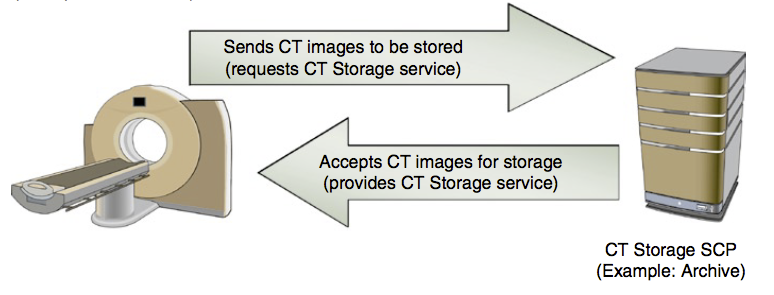
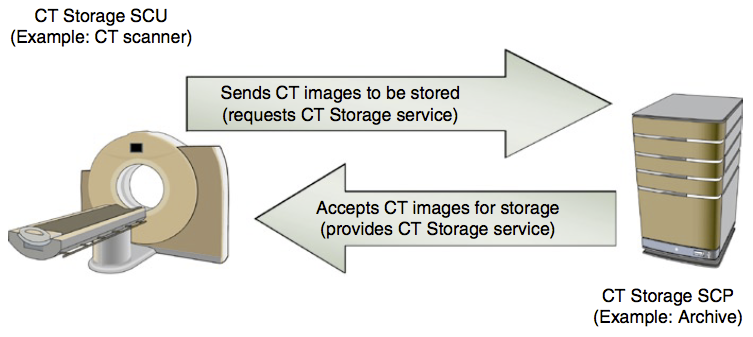
Update image

diff --git a/README.md b/README.md
@@ -22,8 +22,7 @@ When one DICOM device, known as an *Application Entity* (AE), communicates with 
 More often than not a service includes some kind of data transfer. In the example above the request from the CT-scanner contains both a storage service request and an image object. Since this will always be the case for storage service requests it makes sense to always associate a storage request with an image object. This type of association is called a *Service-Object Pair* (SOP). There are many types of SOPs defined in the DICOM standard and they are grouped into *SOP Classes*.
 
 ![](/img/SCU_SCP_relationship.png)
-![](SCU_SCP_relationship.png)
-
+*Shows the SCU/SCP relationship between a CT-scanner and an image archive.*
 
 ## DICOM Elements
 DICOM elements are the basic building blocks of DICOM objects (DICOM files). If one wanted to DICOMize a simple JPEG image, the pixel data will be only one DICOM element out of many in the resulting DICOM object. Apart from the pixel data element, most DICOM elements can be seen as metadata about the image. An example of a DICOM element is shown here:
